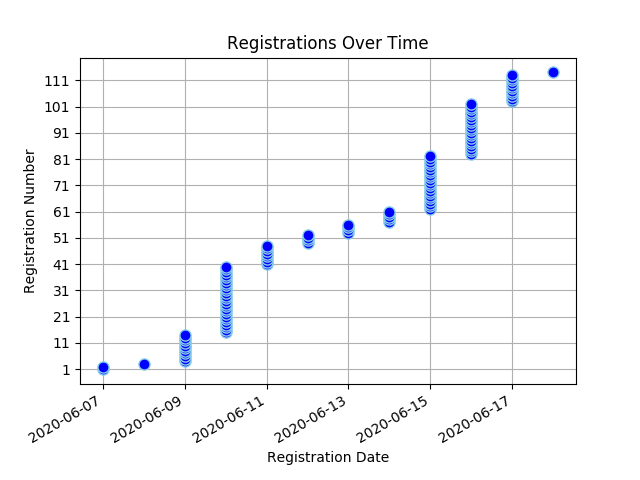
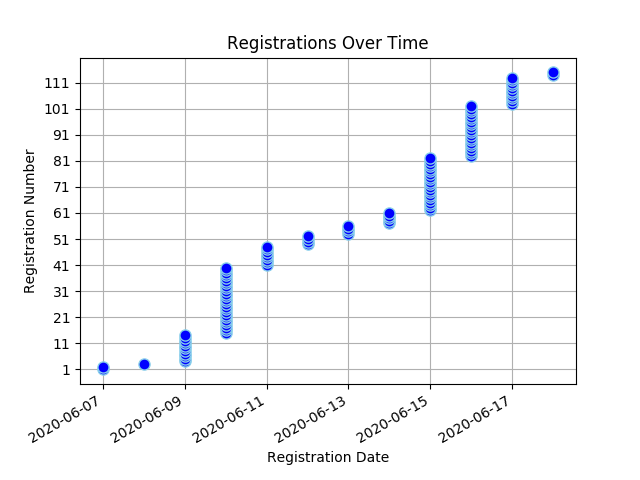
Registree stats backup on Thu Jun 18 10:37:52 SAST 2020

Changed region(s): [[0.0625, 0.125, 0.9062, 0.7188], [0.2812, 0.7188, 0.3125, 0.75]]

diff --git a/content/virtual_conf_stats/_index.md b/content/virtual_conf_stats/_index.md
@@ -16,7 +16,7 @@ draft: false
 </head>
 <body>
 <h1 style="color: #000000;">Virtual Convention Registration Stats</h1>
-<ul><li><strong>Number of Registrees</strong>: 114</li>
+<ul><li><strong>Number of Registrees</strong>: 115</li>
 </ul><a href="/docs/virtual_convention_stats.csv">Download registration details here</a>
 <h2>Registrees</h2>
 <table id="registreeTable" class="tablesorter" border="1" padding=1>
@@ -67,6 +67,7 @@ Club
 <tr><td>Jacobson, Wolsley</td><td>CAPE TOWN</td></tr>
 <tr><td>JOHNSTON, MALCOLM</td><td>STANDERTON</td></tr>
 <tr><td>Jonathan, Grant</td><td>Gordon's Bay</td></tr>
+<tr><td>Jubelin, Charlotte</td><td>CAPE OF GOOD HOPE</td></tr>
 <tr><td>Kahn, Michelle</td><td>Sea Point</td></tr>
 <tr><td>Karshagen, Veronica Nicolene</td><td>King Williams Town</td></tr>
 <tr><td>King, Ian</td><td>Alberton</td></tr>
